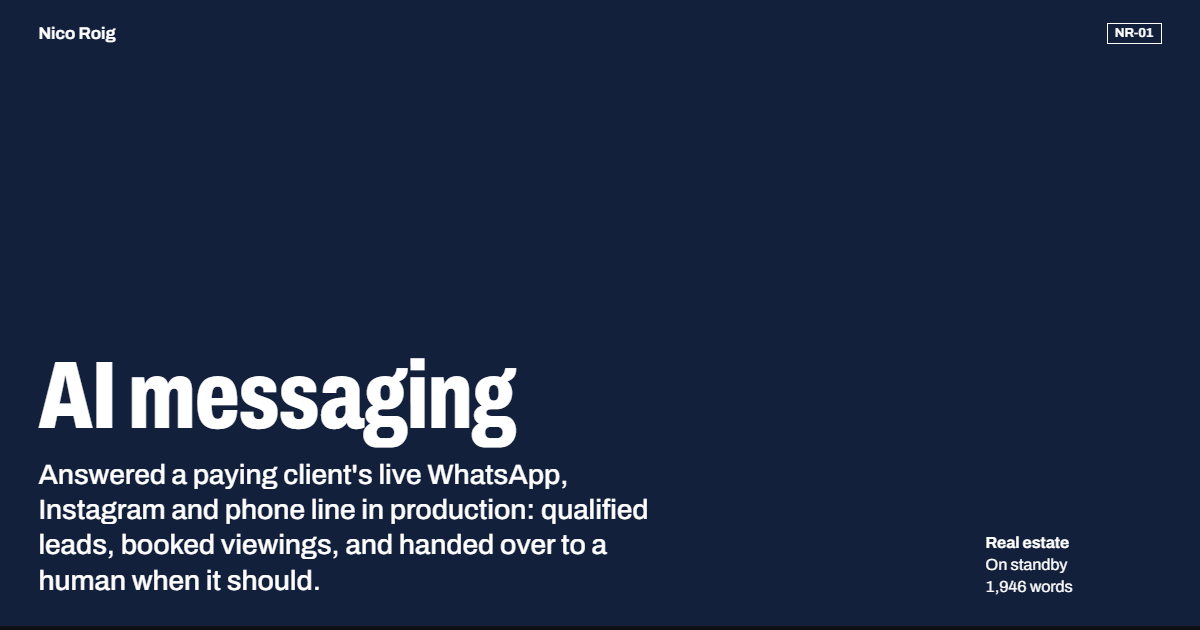
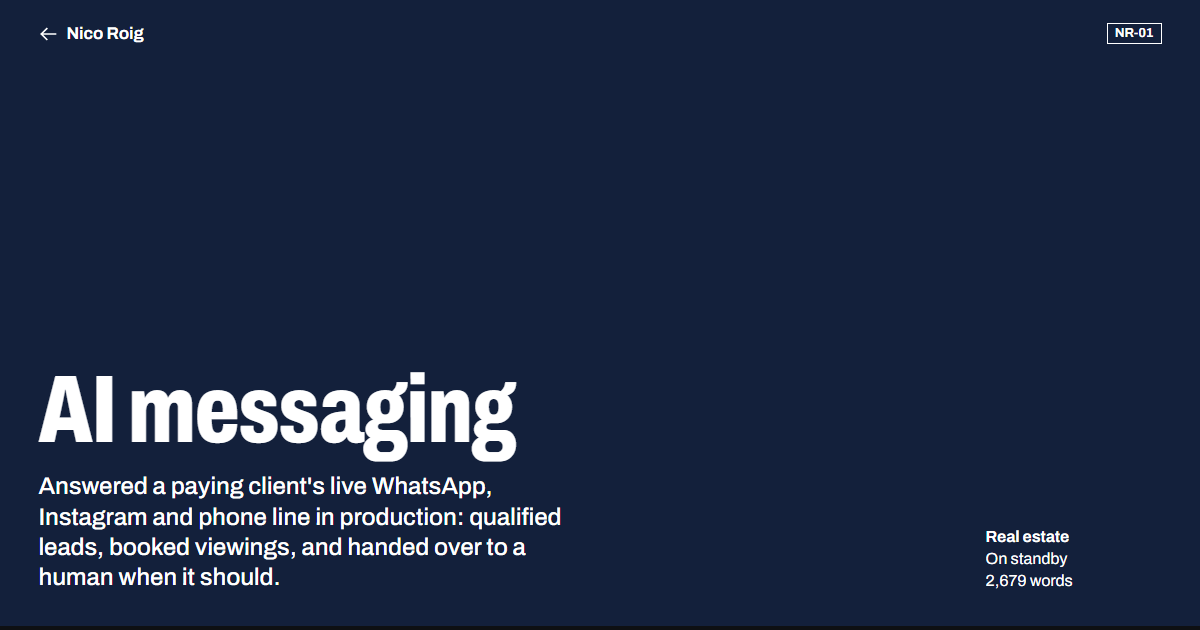
Recuento real de palabras en los cuatro volumenes
Los recuentos de NR-01 a NR-03 venian de versiones anteriores del texto
(antes de las notas tecnicas). Ahora cada lomo, portada e imagen para
compartir muestra el recuento del texto actual del articulo, sin contar
los diagramas, con el mismo metodo para los cuatro.

diff --git a/index.html b/index.html
@@ -39,30 +39,30 @@ if(m[location.hash]){location.replace(m[location.hash]);}})();
 </header>
 <main>
 <ol class="stack">
-  <li data-book="messaging" style="--words:1946">
+  <li data-book="messaging" style="--words:2679">
     <a class="spine" href="/messaging/">
       <span class="plate">NR-01</span>
       <h2 class="spine-title">AI messaging</h2>
       <p class="spine-result">Answered a paying client's live WhatsApp, Instagram and phone line in production: qualified leads, booked viewings, and handed over to a human when it should.</p>
-      <p class="spine-meta"><span>Real estate</span><span>On standby</span><span>1,946 words</span></p>
+      <p class="spine-meta"><span>Real estate</span><span>On standby</span><span>2,679 words</span></p>
       <svg class="arrow" viewBox="0 0 24 24" width="24" height="24" aria-hidden="true"><path d="M3 12h17M13.5 5.5 20 12l-6.5 6.5" fill="none" stroke="currentColor" stroke-width="2" stroke-linecap="square"/></svg>
     </a>
   </li>
-  <li data-book="purchasing" style="--words:1060">
+  <li data-book="purchasing" style="--words:1525">
     <a class="spine" href="/purchasing/">
       <span class="plate">NR-02</span>
       <h2 class="spine-title">Purchasing</h2>
       <p class="spine-result">Put a ready-to-send order in front of the chef instead of a dashboard, in production for the restaurant it was built for.</p>
-      <p class="spine-meta"><span>Hospitality</span><span>Ran in production</span><span>1,060 words</span></p>
+      <p class="spine-meta"><span>Hospitality</span><span>Ran in production</span><span>1,525 words</span></p>
       <svg class="arrow" viewBox="0 0 24 24" width="24" height="24" aria-hidden="true"><path d="M3 12h17M13.5 5.5 20 12l-6.5 6.5" fill="none" stroke="currentColor" stroke-width="2" stroke-linecap="square"/></svg>
     </a>
   </li>
-  <li data-book="tax" style="--words:1054">
+  <li data-book="tax" style="--words:1323">
     <a class="spine" href="/tax/">
       <span class="plate">NR-03</span>
       <h2 class="spine-title">Tax-law research</h2>
       <p class="spine-result">Replaced a manual browser workflow for tax professionals, on a locked-down corporate machine with nothing installed and no credentials.</p>
-      <p class="spine-meta"><span>Tax &amp; legal</span><span>Shipped</span><span>1,054 words</span></p>
+      <p class="spine-meta"><span>Tax &amp; legal</span><span>Shipped</span><span>1,323 words</span></p>
       <svg class="arrow" viewBox="0 0 24 24" width="24" height="24" aria-hidden="true"><path d="M3 12h17M13.5 5.5 20 12l-6.5 6.5" fill="none" stroke="currentColor" stroke-width="2" stroke-linecap="square"/></svg>
     </a>
   </li>

diff --git a/security/index.html b/security/index.html
@@ -188,30 +188,30 @@
 </div>
 <nav class="more" id="more" aria-label="The other systems">
 <ol class="stack stack--end">
-  <li data-book="messaging" style="--words:1946">
+  <li data-book="messaging" style="--words:2679">
     <a class="spine" href="/messaging/">
       <span class="plate">NR-01</span>
       <h2 class="spine-title">AI messaging</h2>
       <p class="spine-result">Answered a paying client's live WhatsApp, Instagram and phone line in production: qualified leads, booked viewings, and handed over to a human when it should.</p>
-      <p class="spine-meta"><span>Real estate</span><span>On standby</span><span>1,946 words</span></p>
+      <p class="spine-meta"><span>Real estate</span><span>On standby</span><span>2,679 words</span></p>
       <svg class="arrow" viewBox="0 0 24 24" width="24" height="24" aria-hidden="true"><path d="M3 12h17M13.5 5.5 20 12l-6.5 6.5" fill="none" stroke="currentColor" stroke-width="2" stroke-linecap="square"/></svg>
     </a>
   </li>
-  <li data-book="purchasing" style="--words:1060">
+  <li data-book="purchasing" style="--words:1525">
     <a class="spine" href="/purchasing/">
       <span class="plate">NR-02</span>
       <h2 class="spine-title">Purchasing</h2>
       <p class="spine-result">Put a ready-to-send order in front of the chef instead of a dashboard, in production for the restaurant it was built for.</p>
-      <p class="spine-meta"><span>Hospitality</span><span>Ran in production</span><span>1,060 words</span></p>
+      <p class="spine-meta"><span>Hospitality</span><span>Ran in production</span><span>1,525 words</span></p>
       <svg class="arrow" viewBox="0 0 24 24" width="24" height="24" aria-hidden="true"><path d="M3 12h17M13.5 5.5 20 12l-6.5 6.5" fill="none" stroke="currentColor" stroke-width="2" stroke-linecap="square"/></svg>
     </a>
   </li>
-  <li data-book="tax" style="--words:1054">
+  <li data-book="tax" style="--words:1323">
     <a class="spine" href="/tax/">
       <span class="plate">NR-03</span>
       <h2 class="spine-title">Tax-law research</h2>
       <p class="spine-result">Replaced a manual browser workflow for tax professionals, on a locked-down corporate machine with nothing installed and no credentials.</p>
-      <p class="spine-meta"><span>Tax &amp; legal</span><span>Shipped</span><span>1,054 words</span></p>
+      <p class="spine-meta"><span>Tax &amp; legal</span><span>Shipped</span><span>1,323 words</span></p>
       <svg class="arrow" viewBox="0 0 24 24" width="24" height="24" aria-hidden="true"><path d="M3 12h17M13.5 5.5 20 12l-6.5 6.5" fill="none" stroke="currentColor" stroke-width="2" stroke-linecap="square"/></svg>
     </a>
   </li>

diff --git a/404.html b/404.html
@@ -33,30 +33,30 @@
 </header>
 <main>
 <ol class="stack stack--end">
-  <li data-book="messaging" style="--words:1946">
+  <li data-book="messaging" style="--words:2679">
     <a class="spine" href="/messaging/">
       <span class="plate">NR-01</span>
       <h2 class="spine-title">AI messaging</h2>
       <p class="spine-result">Answered a paying client's live WhatsApp, Instagram and phone line in production: qualified leads, booked viewings, and handed over to a human when it should.</p>
-      <p class="spine-meta"><span>Real estate</span><span>On standby</span><span>1,946 words</span></p>
+      <p class="spine-meta"><span>Real estate</span><span>On standby</span><span>2,679 words</span></p>
       <svg class="arrow" viewBox="0 0 24 24" width="24" height="24" aria-hidden="true"><path d="M3 12h17M13.5 5.5 20 12l-6.5 6.5" fill="none" stroke="currentColor" stroke-width="2" stroke-linecap="square"/></svg>
     </a>
   </li>
-  <li data-book="purchasing" style="--words:1060">
+  <li data-book="purchasing" style="--words:1525">
     <a class="spine" href="/purchasing/">
       <span class="plate">NR-02</span>
       <h2 class="spine-title">Purchasing</h2>
       <p class="spine-result">Put a ready-to-send order in front of the chef instead of a dashboard, in production for the restaurant it was built for.</p>
-      <p class="spine-meta"><span>Hospitality</span><span>Ran in production</span><span>1,060 words</span></p>
+      <p class="spine-meta"><span>Hospitality</span><span>Ran in production</span><span>1,525 words</span></p>
       <svg class="arrow" viewBox="0 0 24 24" width="24" height="24" aria-hidden="true"><path d="M3 12h17M13.5 5.5 20 12l-6.5 6.5" fill="none" stroke="currentColor" stroke-width="2" stroke-linecap="square"/></svg>
     </a>
   </li>
-  <li data-book="tax" style="--words:1054">
+  <li data-book="tax" style="--words:1323">
     <a class="spine" href="/tax/">
       <span class="plate">NR-03</span>
       <h2 class="spine-title">Tax-law research</h2>
       <p class="spine-result">Replaced a manual browser workflow for tax professionals, on a locked-down corporate machine with nothing installed and no credentials.</p>
-      <p class="spine-meta"><span>Tax &amp; legal</span><span>Shipped</span><span>1,054 words</span></p>
+      <p class="spine-meta"><span>Tax &amp; legal</span><span>Shipped</span><span>1,323 words</span></p>
       <svg class="arrow" viewBox="0 0 24 24" width="24" height="24" aria-hidden="true"><path d="M3 12h17M13.5 5.5 20 12l-6.5 6.5" fill="none" stroke="currentColor" stroke-width="2" stroke-linecap="square"/></svg>
     </a>
   </li>

diff --git a/tax/index.html b/tax/index.html
@@ -31,7 +31,7 @@
   <div class="cover-body">
     <h1>Tax-law research</h1>
     <p class="cover-result">Replaced a manual browser workflow for tax professionals, on a locked-down corporate machine with nothing installed and no credentials.</p>
-    <p class="cover-meta"><span>Tax &amp; legal</span><span>Shipped</span><span>1,054 words</span></p>
+    <p class="cover-meta"><span>Tax &amp; legal</span><span>Shipped</span><span>1,323 words</span></p>
   </div>
 </header>
 <div class="doc">
@@ -156,21 +156,21 @@
 </div>
 <nav class="more" id="more" aria-label="The other systems">
 <ol class="stack stack--end">
-  <li data-book="messaging" style="--words:1946">
+  <li data-book="messaging" style="--words:2679">
     <a class="spine" href="/messaging/">
       <span class="plate">NR-01</span>
       <h2 class="spine-title">AI messaging</h2>
       <p class="spine-result">Answered a paying client's live WhatsApp, Instagram and phone line in production: qualified leads, booked viewings, and handed over to a human when it should.</p>
-      <p class="spine-meta"><span>Real estate</span><span>On standby</span><span>1,946 words</span></p>
+      <p class="spine-meta"><span>Real estate</span><span>On standby</span><span>2,679 words</span></p>
       <svg class="arrow" viewBox="0 0 24 24" width="24" height="24" aria-hidden="true"><path d="M3 12h17M13.5 5.5 20 12l-6.5 6.5" fill="none" stroke="currentColor" stroke-width="2" stroke-linecap="square"/></svg>
     </a>
   </li>
-  <li data-book="purchasing" style="--words:1060">
+  <li data-book="purchasing" style="--words:1525">
     <a class="spine" href="/purchasing/">
       <span class="plate">NR-02</span>
       <h2 class="spine-title">Purchasing</h2>
       <p class="spine-result">Put a ready-to-send order in front of the chef instead of a dashboard, in production for the restaurant it was built for.</p>
-      <p class="spine-meta"><span>Hospitality</span><span>Ran in production</span><span>1,060 words</span></p>
+      <p class="spine-meta"><span>Hospitality</span><span>Ran in production</span><span>1,525 words</span></p>
       <svg class="arrow" viewBox="0 0 24 24" width="24" height="24" aria-hidden="true"><path d="M3 12h17M13.5 5.5 20 12l-6.5 6.5" fill="none" stroke="currentColor" stroke-width="2" stroke-linecap="square"/></svg>
     </a>
   </li>

diff --git a/messaging/index.html b/messaging/index.html
@@ -31,7 +31,7 @@
   <div class="cover-body">
     <h1>AI messaging</h1>
     <p class="cover-result">Answered a paying client's live WhatsApp, Instagram and phone line in production: qualified leads, booked viewings, and handed over to a human when it should.</p>
-    <p class="cover-meta"><span>Real estate</span><span>On standby</span><span>1,946 words</span></p>
+    <p class="cover-meta"><span>Real estate</span><span>On standby</span><span>2,679 words</span></p>
   </div>
 </header>
 <div class="doc">
@@ -201,21 +201,21 @@
 </div>
 <nav class="more" id="more" aria-label="The other systems">
 <ol class="stack stack--end">
-  <li data-book="purchasing" style="--words:1060">
+  <li data-book="purchasing" style="--words:1525">
     <a class="spine" href="/purchasing/">
       <span class="plate">NR-02</span>
       <h2 class="spine-title">Purchasing</h2>
       <p class="spine-result">Put a ready-to-send order in front of the chef instead of a dashboard, in production for the restaurant it was built for.</p>
-      <p class="spine-meta"><span>Hospitality</span><span>Ran in production</span><span>1,060 words</span></p>
+      <p class="spine-meta"><span>Hospitality</span><span>Ran in production</span><span>1,525 words</span></p>
       <svg class="arrow" viewBox="0 0 24 24" width="24" height="24" aria-hidden="true"><path d="M3 12h17M13.5 5.5 20 12l-6.5 6.5" fill="none" stroke="currentColor" stroke-width="2" stroke-linecap="square"/></svg>
     </a>
   </li>
-  <li data-book="tax" style="--words:1054">
+  <li data-book="tax" style="--words:1323">
     <a class="spine" href="/tax/">
       <span class="plate">NR-03</span>
       <h2 class="spine-title">Tax-law research</h2>
       <p class="spine-result">Replaced a manual browser workflow for tax professionals, on a locked-down corporate machine with nothing installed and no credentials.</p>
-      <p class="spine-meta"><span>Tax &amp; legal</span><span>Shipped</span><span>1,054 words</span></p>
+      <p class="spine-meta"><span>Tax &amp; legal</span><span>Shipped</span><span>1,323 words</span></p>
       <svg class="arrow" viewBox="0 0 24 24" width="24" height="24" aria-hidden="true"><path d="M3 12h17M13.5 5.5 20 12l-6.5 6.5" fill="none" stroke="currentColor" stroke-width="2" stroke-linecap="square"/></svg>
     </a>
   </li>

diff --git a/purchasing/index.html b/purchasing/index.html
@@ -31,7 +31,7 @@
   <div class="cover-body">
     <h1>Purchasing</h1>
     <p class="cover-result">Put a ready-to-send order in front of the chef instead of a dashboard, in production for the restaurant it was built for.</p>
-    <p class="cover-meta"><span>Hospitality</span><span>Ran in production</span><span>1,060 words</span></p>
+    <p class="cover-meta"><span>Hospitality</span><span>Ran in production</span><span>1,525 words</span></p>
   </div>
 </header>
 <div class="doc">
@@ -168,21 +168,21 @@
 </div>
 <nav class="more" id="more" aria-label="The other systems">
 <ol class="stack stack--end">
-  <li data-book="messaging" style="--words:1946">
+  <li data-book="messaging" style="--words:2679">
     <a class="spine" href="/messaging/">
       <span class="plate">NR-01</span>
       <h2 class="spine-title">AI messaging</h2>
       <p class="spine-result">Answered a paying client's live WhatsApp, Instagram and phone line in production: qualified leads, booked viewings, and handed over to a human when it should.</p>
-      <p class="spine-meta"><span>Real estate</span><span>On standby</span><span>1,946 words</span></p>
+      <p class="spine-meta"><span>Real estate</span><span>On standby</span><span>2,679 words</span></p>
       <svg class="arrow" viewBox="0 0 24 24" width="24" height="24" aria-hidden="true"><path d="M3 12h17M13.5 5.5 20 12l-6.5 6.5" fill="none" stroke="currentColor" stroke-width="2" stroke-linecap="square"/></svg>
     </a>
   </li>
-  <li data-book="tax" style="--words:1054">
+  <li data-book="tax" style="--words:1323">
     <a class="spine" href="/tax/">
       <span class="plate">NR-03</span>
       <h2 class="spine-title">Tax-law research</h2>
       <p class="spine-result">Replaced a manual browser workflow for tax professionals, on a locked-down corporate machine with nothing installed and no credentials.</p>
-      <p class="spine-meta"><span>Tax &amp; legal</span><span>Shipped</span><span>1,054 words</span></p>
+      <p class="spine-meta"><span>Tax &amp; legal</span><span>Shipped</span><span>1,323 words</span></p>
       <svg class="arrow" viewBox="0 0 24 24" width="24" height="24" aria-hidden="true"><path d="M3 12h17M13.5 5.5 20 12l-6.5 6.5" fill="none" stroke="currentColor" stroke-width="2" stroke-linecap="square"/></svg>
     </a>
   </li>
